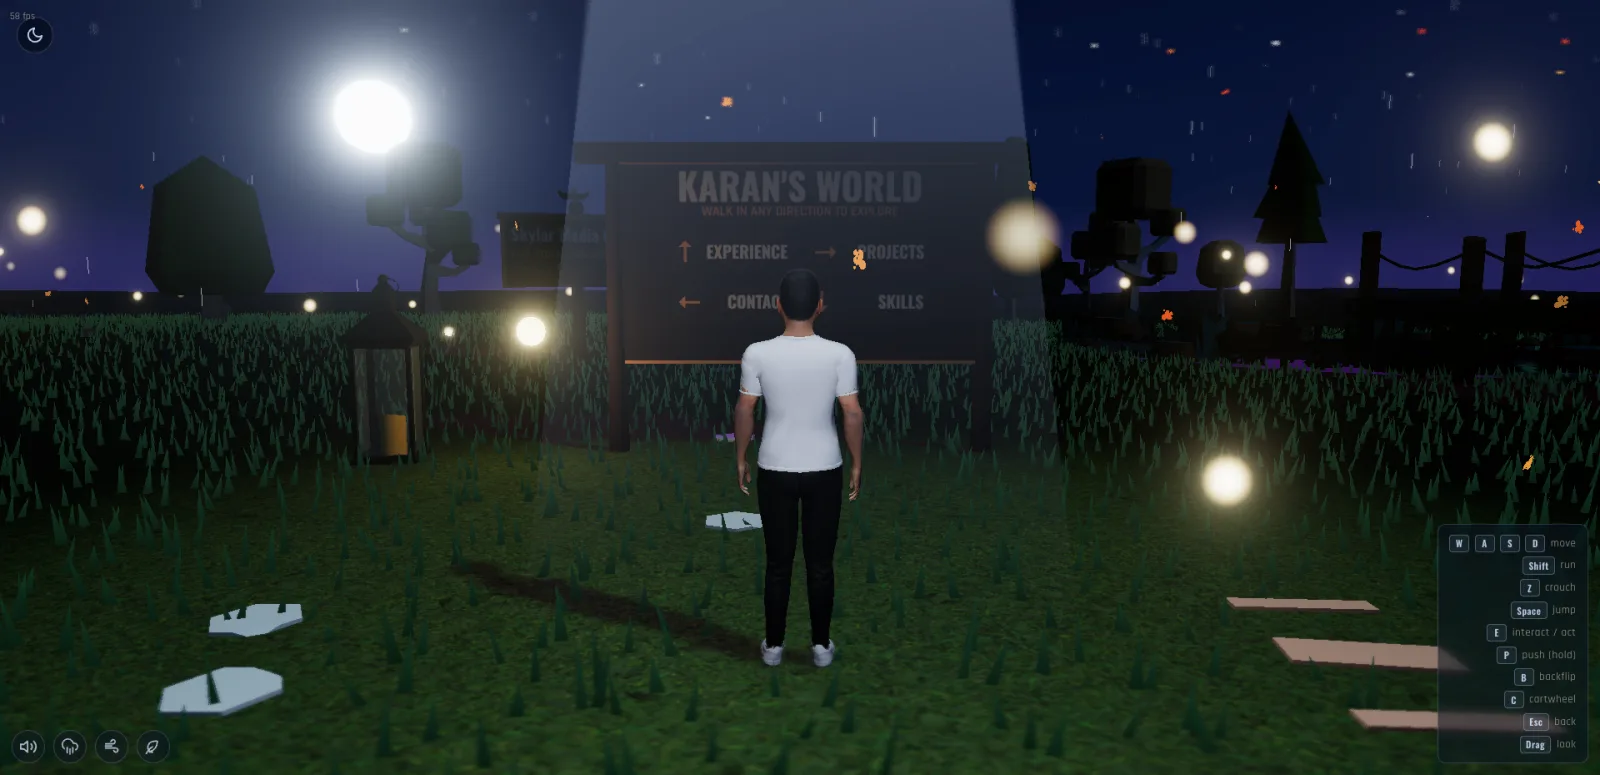
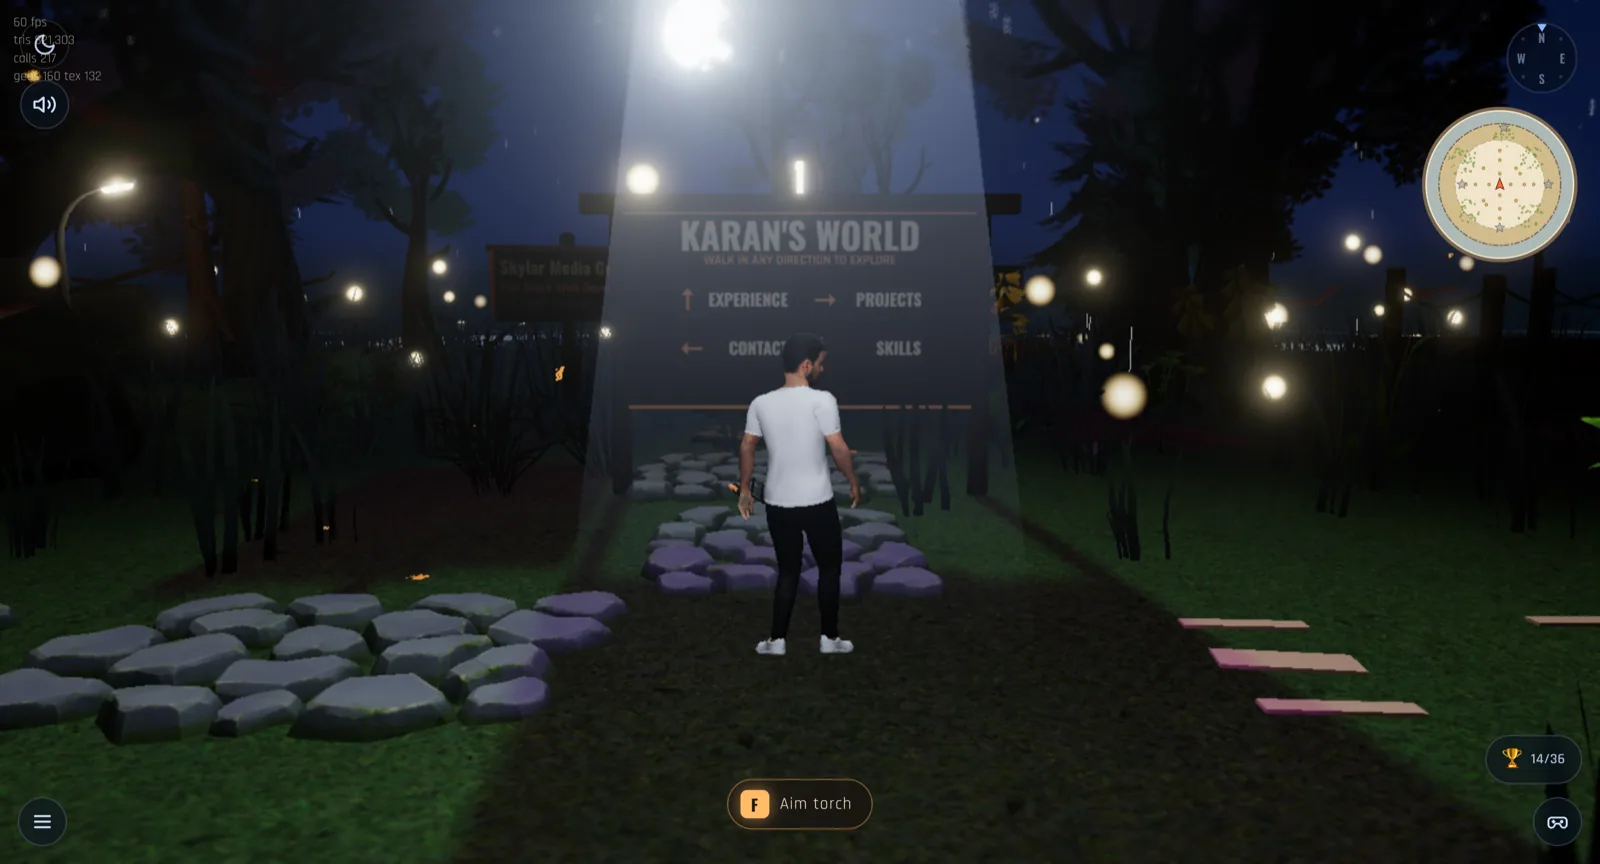
Per-section map thumbnails + refreshed docs day/night
MapOverlay now picks a per-section thumbnail (projects/experience/skills/
contact) from static/map-thumbs/ instead of swapping the docs day.webp /
night.webp pair. Thumbnails are 800x500 (16:10, matches the .map-preview
img aspect-ratio) and show the section's actual in-world content — the
Project Showcase billboard, the SKILLS board, the MetricStream sign, the
contact mailbox.

docs/day.webp + docs/night.webp re-shot at 1600x864 from the current
world state (warmer trees, new lamps, refreshed welcome compass).

diff --git a/src/UI/MapOverlay.js b/src/UI/MapOverlay.js
@@ -4,8 +4,13 @@ import { svgToWorld, worldToSvg } from './coords.js';
 import { renderIslandMap, svgEl } from './MapMarkers.js';
 
 const SIZE = 800;
-const DAY_THUMB = new URL('../../docs/day.webp', import.meta.url).href;
-const NIGHT_THUMB = new URL('../../docs/night.webp', import.meta.url).href;
+const SECTION_THUMBS = {
+  projects: new URL('../../static/map-thumbs/projects.webp', import.meta.url).href,
+  experience: new URL('../../static/map-thumbs/experience.webp', import.meta.url).href,
+  skills: new URL('../../static/map-thumbs/skills.webp', import.meta.url).href,
+  contact: new URL('../../static/map-thumbs/contact.webp', import.meta.url).href,
+};
+const DEFAULT_THUMB = SECTION_THUMBS.projects;
 
 export class MapOverlay {
   constructor({
@@ -39,7 +44,7 @@ export class MapOverlay {
         <aside class="map-preview">
           <div class="map-preview-eyebrow">Explorer map</div>
           <h2>Choose a destination</h2>
-          <img alt="" src="${DAY_THUMB}" />
+          <img alt="" src="${DEFAULT_THUMB}" />
           <p>Hover a marker for a section preview. Click open land to drop a flag and walk there.</p>
         </aside>
         <button class="map-reset" type="button">Reset Discovery</button>
@@ -185,7 +190,7 @@ export class MapOverlay {
 
   #showPreview(section) {
     const discovered = this.discovery?.isDiscovered?.(section.id);
-    const img = discovered ? NIGHT_THUMB : DAY_THUMB;
+    const img = SECTION_THUMBS[section.id] ?? DEFAULT_THUMB;
     this.preview.innerHTML = `
       <div class="map-preview-eyebrow">${discovered ? 'Discovered' : 'Marked route'}</div>
       <h2>${section.name}</h2>